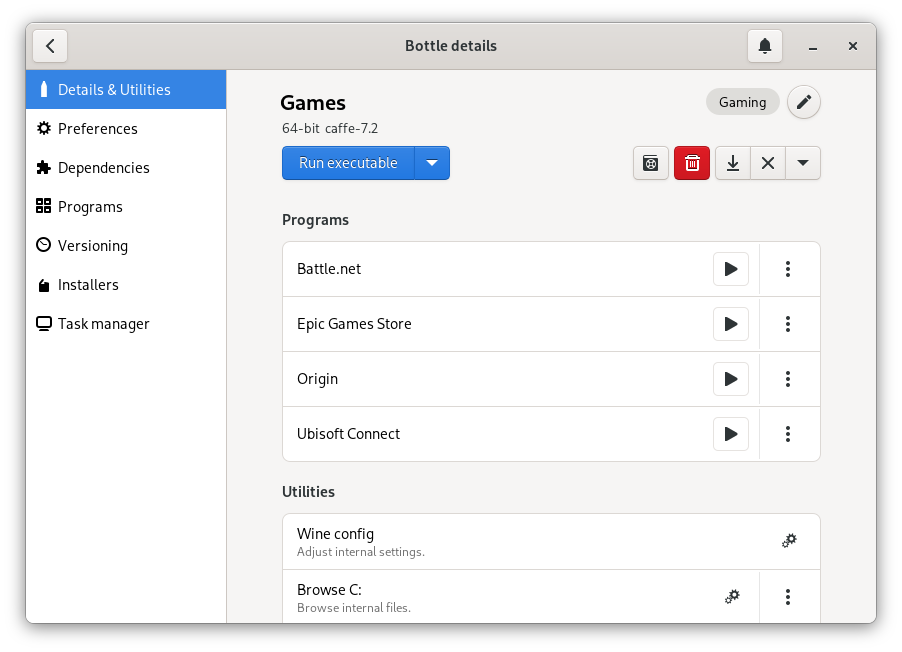
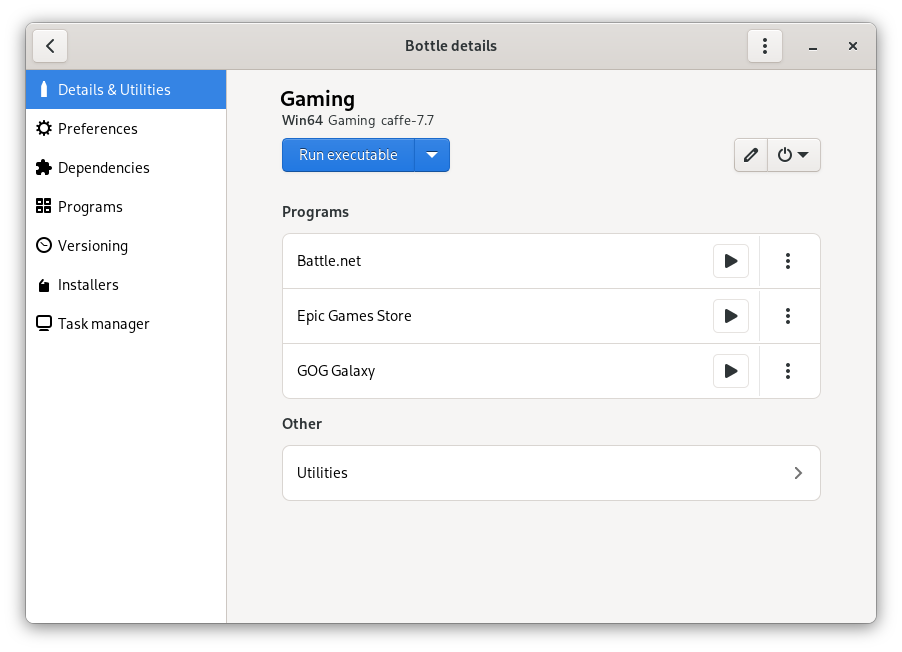
add las22

diff --git a/assets/css/style.css b/assets/css/style.css
@@ -162,6 +162,22 @@ section.hero {
     background-image: linear-gradient(72deg, rgba(208, 246, 255, 1) 0.1%, rgba(255, 237, 237, 1) 47.9%, rgba(255, 255, 231, 1) 100.2%);
 }
 
+section.panel.orange {
+    background-image: linear-gradient(120deg, #f6d365 0%, #fda085 100%);
+}
+
+section.hero.fill {
+    height: calc(100vh - 62px);
+    padding: 0 4rem;
+}
+
+section.hero.fill .container {
+    top: 50%;
+    -ms-transform: translateY(-50%);
+    transform: translateY(-50%);
+    position: relative;
+}
+
 section.hero img {
     display: block;
     margin: 2rem auto 0;
@@ -683,6 +699,10 @@ section.heading .background {
     position: relative;
 }
 
+.center {
+    text-align: center;
+}
+
 .release-day {
     margin: 30px 0 10px 0;
     text-align: center;
@@ -981,6 +1001,10 @@ input[type="search"]:focus {
     font-size: 1em;
 }
 
+.button.button-dark {
+    background-color: #191919;
+}
+
 .hero.yellow {
     background: #f7e2c1;
 }
@@ -1120,6 +1144,26 @@ section.heading {
     display: grid;
     grid-template-columns: 1fr 1fr;
     gap: 20px;
+}
+
+.splitter.flex {
+    display: flex;
+    justify-content: space-between;
+    align-items: center;
+}
+
+section.panel {
+    padding: 0;
+}
+
+section.panel h4 {
+    font-size: 1.6em;
+    margin: 0;
+}
+
+section.panel p {
+    margin: .5em 0;
+    font-size: 18px;
 }
 
 .card.panel {

diff --git a/index.html b/index.html
@@ -14,6 +14,25 @@ description: Run Windows programs on Linux.
   }
 </script>
 
+<section class="panel orange fill animate__animated animate__fadeIn">
+  <div class="container large">
+    <div class="splitter flex">
+      <div>
+        <h4>Meet us @<u title="Linux App Summit 2022">LAS2022</u></h4>
+        <p>Join our talk on <b>April 30</b> to find out how WINE will change on Linux thanks to Bottles and Layers</p>
+      </div>
+      <div>
+        <p>April 30, 2022 - 11:35/12:15</p>
+        <a class="button button-dark" href="https://www.youtube.com/channel/UCjSsbz2TDxIxBEarbDzNQ4w" title="Watch Linux App Summit 2022 event live">
+          <ion-icon name="play-circle-outline"></ion-icon> Watch event live</a>
+        <div class="more-links">
+          <a href="https://conf.linuxappsummit.org/event/4/timetable/#20220430">Browse the timetable</a>
+        </div>
+      </div>
+    </div>
+  </div>
+</section>
+
 <section class="hero">
   <div class="container">
     <h1 class="animate__animated animate__fadeIn">Run Windows in a <u>Bottle</u></h1>
